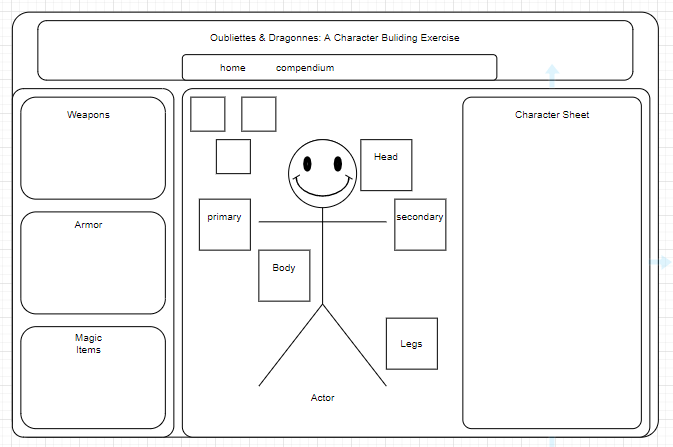
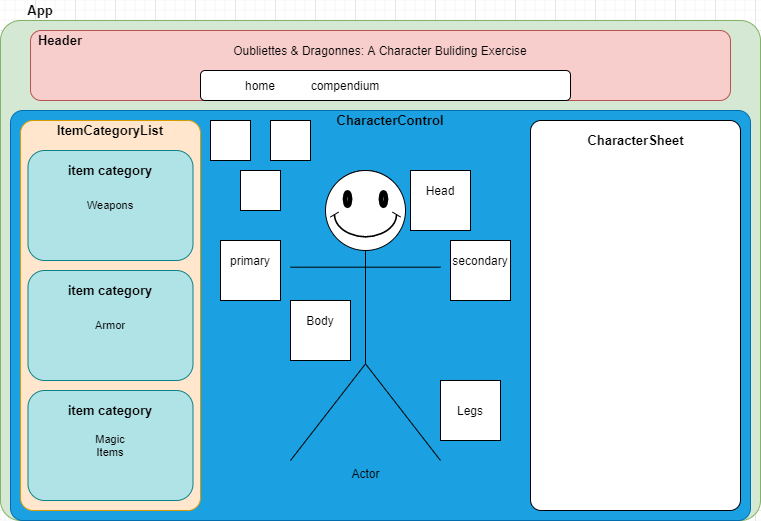
update page component diagram with color coding for easier understanding

diff --git a/Work.md b/Work.md
@@ -23,3 +23,9 @@
 ## Saturday 2021/3/6
 
 1800-2000: watching videos for research, setting up basic component structure
+
+## Sunday 2021/3/7
+
+1000-1200: more research, thumbing through some more tutorials for similar projects.  
+
+1300-1430: re-drawing mock-up addind color coding for easier thought of how to organize page
